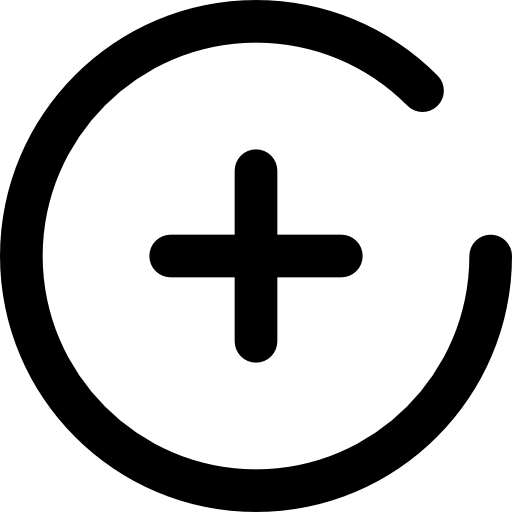
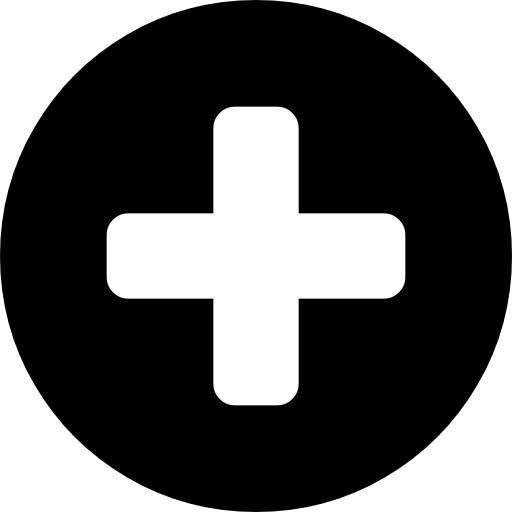
29/04 - 13:13

diff --git a/src/components/Form/Form.js b/src/components/Form/Form.js
@@ -2,10 +2,11 @@ import { useEffect, useState } from "react";
 import "./Form.css";
 
 const Form = (props) => {
-  const [form, setForm] = useState({});
+  const [form, setForm] = useState({receita: "", ingredientes: "", preparo: ""});
   const [receitas, setReceitas] = useState([]);
   const [selectedReceita, setSelectedReceita] = useState();
   const [ingredientes, setIngrediente] = useState([]);
+
 
   useEffect(() => {
     const receita = JSON.parse(localStorage.getItem("selectedReceita"));
@@ -101,6 +102,12 @@ const Form = (props) => {
     localStorage.removeItem("selectedReceita");
   };
 
+ 
+
+  const ingredientesList = form.ingredientes
+    .split(",")
+    .map((ingrediente, index) => <li key={index}>{ingrediente.trim()}</li>);
+
   return (
     <form onSubmit={(event) => handleSubmit(event)}>
       <div>
@@ -112,6 +119,7 @@ const Form = (props) => {
             onChange={(event) => handleChange(event)}
             value={form.receita}
             required
+            placeholder="Nome da sua receita"
           />
         </label>
       </div>
@@ -121,11 +129,12 @@ const Form = (props) => {
           <div>
             <textarea
               name="ingredientes"
-              value={form.ingredientes}
+              value={form.ingredientes.replace(/-/g, '\n')}
               onChange={(event) => handleChange(event)}
               required
+              placeholder="Ingredientes separados por vígula"
             />
-            <ul>{ingredientes}</ul>
+            <ul>{ingredientesList}</ul>
           </div>
         </label>
       </div>
@@ -138,6 +147,7 @@ const Form = (props) => {
             onChange={(event) => handleChange(event)}
             value={form.preparo}
             required
+            placeholder="Digite aqui os seus segredos "
           />
         </label>
       </div>
@@ -167,17 +177,19 @@ const Form = (props) => {
         </div>
       </div>
 
-      <button 
-      style={{ cursor: "pointer" }} 
-      type="submit" className="btn">
-      {selectedReceita ? "Alterar" : "Adicionar"}
+      <button style={{ cursor: "pointer" }} type="submit" className="btn">
+        {selectedReceita ? "Alterar" : "Adicionar"}
       </button>
       {selectedReceita ? (
         <button
           style={{ cursor: "pointer" }}
           onClick={(event) => {
             event.preventDefault();
-            removeReceita(selectedReceita);
+            if (
+              window.confirm("Tem certeza que deseja excluir esta receita?")
+            ) {
+              removeReceita(selectedReceita);
+            }
           }}
           className="btn"
         >

diff --git a/src/components/Popup/Popup.js b/src/components/Popup/Popup.js
@@ -1,30 +1,29 @@
 import Form from "../Form/Form";
 import "../../index.css";
-import buttonImage from "../../assets/plus.png"
-
+import buttonImage from "../../assets/plus.png";
 
 const Popup = (props) => {
   const { aberto } = props;
   return (
     <div className="area-inicial">
-   
       {!aberto && (
         <img
-        src={buttonImage}
-        alt="Botão" width={50}
-        onClick={() => {
-              props.updateAberto(true);
-              props.updateShowLista(false);
-            }}
-        style={{
-          cursor: 'pointer'
-        }}
-      />
-        
+          src={buttonImage}
+          alt="Botão adicionar Receita"
+          title="Clique para adicionar uma nova receita"
+          width={60}
+          onClick={() => {
+            props.updateAberto(true);
+            props.updateShowLista(false);
+          }}
+          style={{
+            cursor: "pointer",
+          }}
+        />
       )}
       {aberto && (
         <Form
-          receitas = {props.receitas}
+          receitas={props.receitas}
           updateAberto={props.updateAberto}
           updateReceitas={props.updateReceitas}
           updateShowLista={props.updateShowLista}

diff --git a/public/index.html b/public/index.html
@@ -2,14 +2,14 @@
 <html lang="en">
   <head>
     <meta charset="utf-8" />
-    <link rel="icon" href="./chefe-de-cozinha.png" />
+    <link rel="icon" href="./Logo.png" />
     <meta name="viewport" content="width=device-width, initial-scale=1" />
     <meta name="theme-color" content="#000000" />
     <meta
       name="description"
       content="Web site created using create-react-app"
     />
-    
+
     <!--
       manifest.json provides metadata used when your web app is installed on a
       user's mobile device or desktop. See https://developers.google.com/web/fundamentals/web-app-manifest/
@@ -24,7 +24,7 @@
       work correctly both with client-side routing and a non-root public URL.
       Learn how to configure a non-root public URL by running `npm run build`.
     -->
-    <title>LabReceitas - As melhores!</title>
+    <title>Lab-Receitas - As suas receitas!</title>
   </head>
   <body>
     <noscript>You need to enable JavaScript to run this app.</noscript>

diff --git a/src/components/Lista/ItemLista.js b/src/components/Lista/ItemLista.js
@@ -1,5 +1,5 @@
 import "./Lista.css";
-import buttonEdit from "../../assets/antecao.png";
+import buttonEdit from "../../assets/informacoes.png";
 
 const ItemLista = (props) => {
   const { receita } = props;
@@ -14,16 +14,14 @@ const ItemLista = (props) => {
   };
 
   return (
-
     <div className="receita">
-      
-        <div> <b>Receita: </b> {receita.receita}</div>
-      
       <div>
+        
+        <b>Receita: </b> {receita.receita}{" "}
         <img
           src={buttonEdit}
           alt="Botão"
-          width={50}
+          width={20}
           onClick={() => {
             selectReceita(receita);
             handleForm();

diff --git a/src/App.js b/src/App.js
@@ -25,15 +25,13 @@ function App() {
   }, []);
 
   return (
-    <div className="areaTotal" >
+    <div className="areaTotal">
       <div>
         <div className="titulo">
           {" "}
           <h1>Livro de Receitas Online</h1>
-          <h3>
-            Aqui é o seu mais novo site de receitas compartilhadas, mostre seus
-            dotes culinários!!
-          </h3>
+          <h3>Diário on-line de receitas!!</h3>
+          <h4>Aqui eu sou o Mestre Cuca</h4>
           <br />
         </div>
         <Popup

diff --git a/src/index.css b/src/index.css
@@ -10,11 +10,8 @@
   
 }
 
-.areaTotal{
-  background: url('../src/assets/fundo.png');
-  background-repeat: repeat-x;
-  width: 100vw;
-  height: 100vh;
+body{
+  background: url('../src/assets/fundo1.jpg');
 }
 
 .area-inicial {
